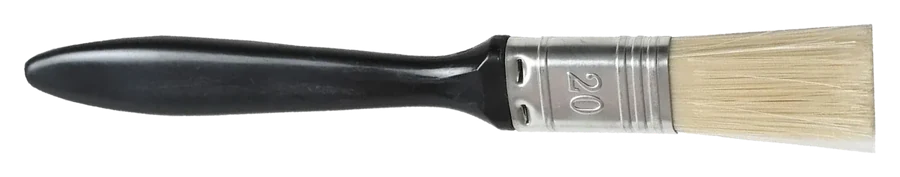
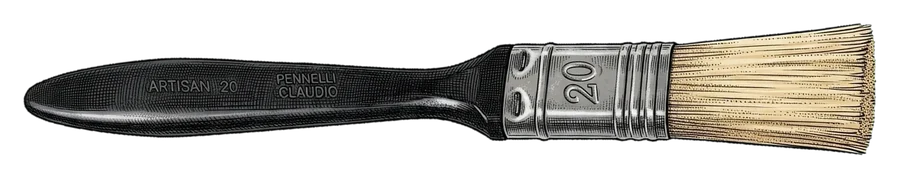
Shop: nuovo pennello Artisan 20 e blister che segue la presa
Il pennello del blister è ora l'illustrazione Artisan 20, specchiato con
le setole a destra e le scritte leggibili. Trascinando, il blister ruota
attorno al foro e il punto afferrato segue il dito.

diff --git a/site/shop.html b/site/shop.html
@@ -289,7 +289,7 @@ a{color:inherit}
   <!-- kit -->
   <section class="sez kit" aria-labelledby="t-kit">
     <article class="lama">
-      <div class="campo"><img class="s1" src="img/secchio-batrix.webp" alt="" width="273" height="286"><img class="s2" src="img/shop/pennello20-prodotto.webp" alt="" width="900" height="177"></div>
+      <div class="campo"><img class="s1" src="img/secchio-batrix.webp" alt="" width="273" height="286"><img class="s2" src="img/shop/pennello20-prodotto.webp" alt="" width="900" height="178"></div>
       <div class="etichetta"><b>Kit stanza</b><i class="foro" aria-hidden="true"></i></div>
       <div class="adesivo" aria-hidden="true">
         <svg class="giro" viewBox="0 0 120 120"><circle cx="60" cy="60" r="58" fill="#fff"/><text font-family="Figtree" font-weight="700" font-size="11.5" letter-spacing="2.2" fill="#DF2F26"><textPath href="#cerchio">TUTTO PRONTO DA RITIRARE · KIT ·</textPath></text></svg>
@@ -357,7 +357,7 @@ const PRODOTTI = [
    img:'img/secchio-hp-ferro.webp', w:466, h:572, prezzo:21.5, formato:'0,75 L · prezzo di esempio', c:'#3A3F48', t:'#fff', incisione:'img/amb-ferro.webp',
    pregi:['All’acqua','Superficie dura','Antisporco']},
   {id:'pennello', cat:'Pennelli', nome:'Pennello da 20', desc:'Il pennello del banco: setole chiare che trattengono la pittura, manico ergonomico e ghiera in acciaio. Per ritocchi, bordi e smalti.',
-   img:'img/shop/pennello20-prodotto.webp', w:900, h:177, prezzo:4.9, formato:'1 pezzo · prezzo di esempio', c:'#F2C230', t:'#15171C', incisione:'img/tavola-interni.webp',
+   img:'img/shop/pennello20-prodotto.webp', w:900, h:178, prezzo:4.9, formato:'1 pezzo · prezzo di esempio', c:'#F2C230', t:'#15171C', incisione:'img/tavola-interni.webp',
    pregi:['Ritocchi','Angoli','Smalti'], largo:true}
 ];
 const CATEGORIE = [...new Set(PRODOTTI.map(p => p.cat))];

diff --git a/site/componenti/blister-shop.js b/site/componenti/blister-shop.js
@@ -205,13 +205,21 @@ a:focus-visible .blister{outline:3px solid currentColor;outline-offset:-6px}
     _eventi() {
       this.addEventListener('pointerdown', e => {
         if (e.button !== 0) return;
+        // il perno è il foro in alto al centro: il punto afferrato segue il dito girando attorno a lui
+        const r = this.getBoundingClientRect();
+        this._px = r.left + r.width / 2; this._py = r.top + r.height * 10 / 178;
+        this._g0 = Math.atan2(e.clientX - this._px, e.clientY - this._py);
         this._tira = true; this._mosso = false; this._x0 = e.clientX; this._a0 = this._ang; this._vel = 0;
         this.classList.add('tira'); this._a.setPointerCapture(e.pointerId);   // cattura sul link: così il clic semplice lo apre ancora
       });
       this.addEventListener('pointermove', e => {
         if (this._tira) {
           const dx = e.clientX - this._x0; if (Math.abs(dx) > 4) this._mosso = true;
-          const nuovo = Math.max(-15, Math.min(15, this._a0 + dx * .24));
+          // angolo del puntatore attorno al perno, misurato dalla verticale: andando a destra sotto il perno
+          // il cartoncino gira in senso antiorario (rotateZ negativo), come un pendolo spinto da quel lato
+          const g = Math.atan2(e.clientX - this._px, e.clientY - this._py);
+          let d = g - this._g0; if (d > Math.PI) d -= 2 * Math.PI; if (d < -Math.PI) d += 2 * Math.PI;
+          const nuovo = Math.max(-15, Math.min(15, this._a0 - d * 180 / Math.PI));
           this._vel = (nuovo - this._ang) * 60; this._ang = nuovo; return;
         }
         if (e.pointerType !== 'mouse' || !mouseFine.matches) return;

diff --git a/site/index.html b/site/index.html
@@ -764,7 +764,7 @@ blister-shop:not(:defined){display:block;width:360px;max-width:100%;aspect-ratio
       </div>
       <p class="indirizzo">Provinciale Lecce-Vernole, 73029 Strudà (LE)</p>
       <blister-shop class="card-shop" chiaro presto titolo="Shop in arrivo" invito="A breve ordini da qui">
-        <img src="img/shop/pennello20-prodotto.webp" data-bolla="img/shop/pennello20-bolla.webp" width="900" height="177" alt="Pennello da 20">
+        <img src="img/shop/pennello20-prodotto.webp" data-bolla="img/shop/pennello20-bolla.webp" width="900" height="178" alt="Pennello Artisan da 20">
       </blister-shop>
     </div>
     <div class="hero-destra">
